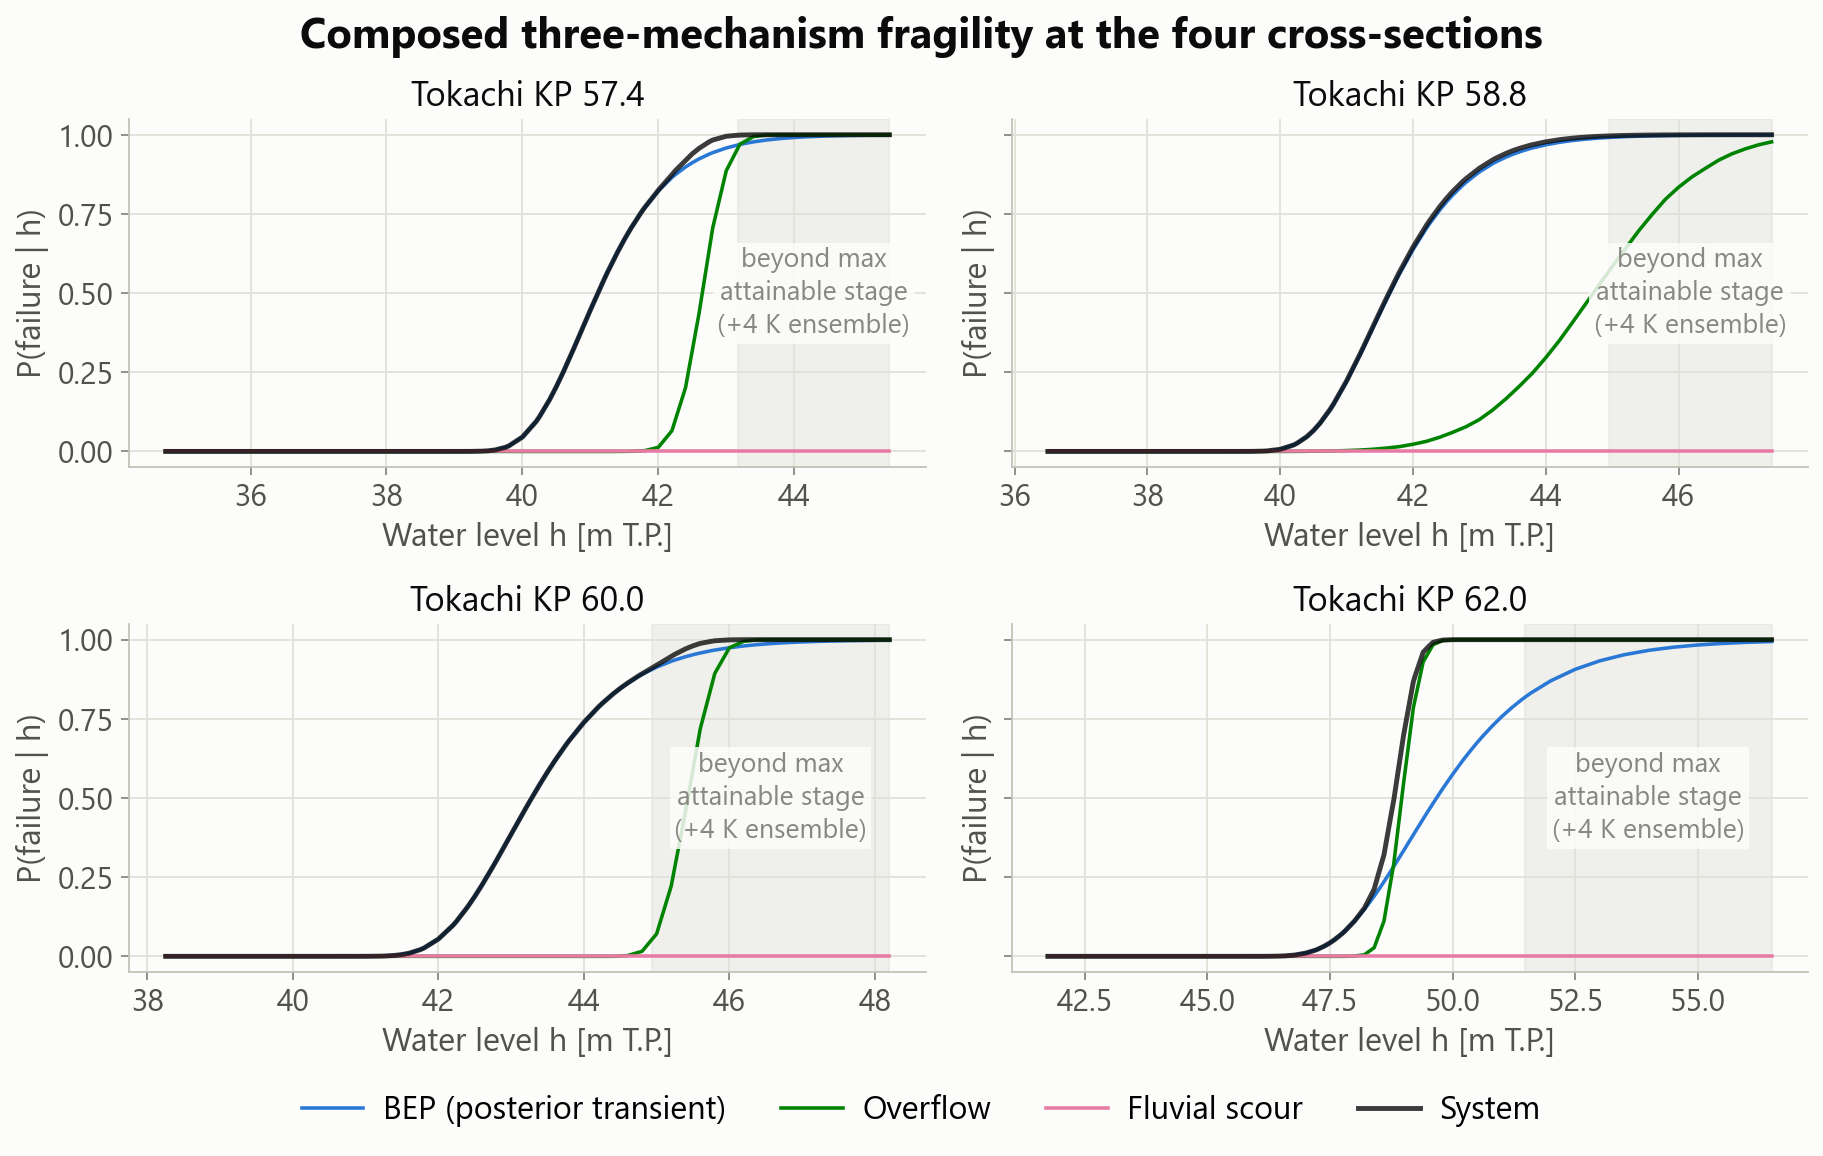
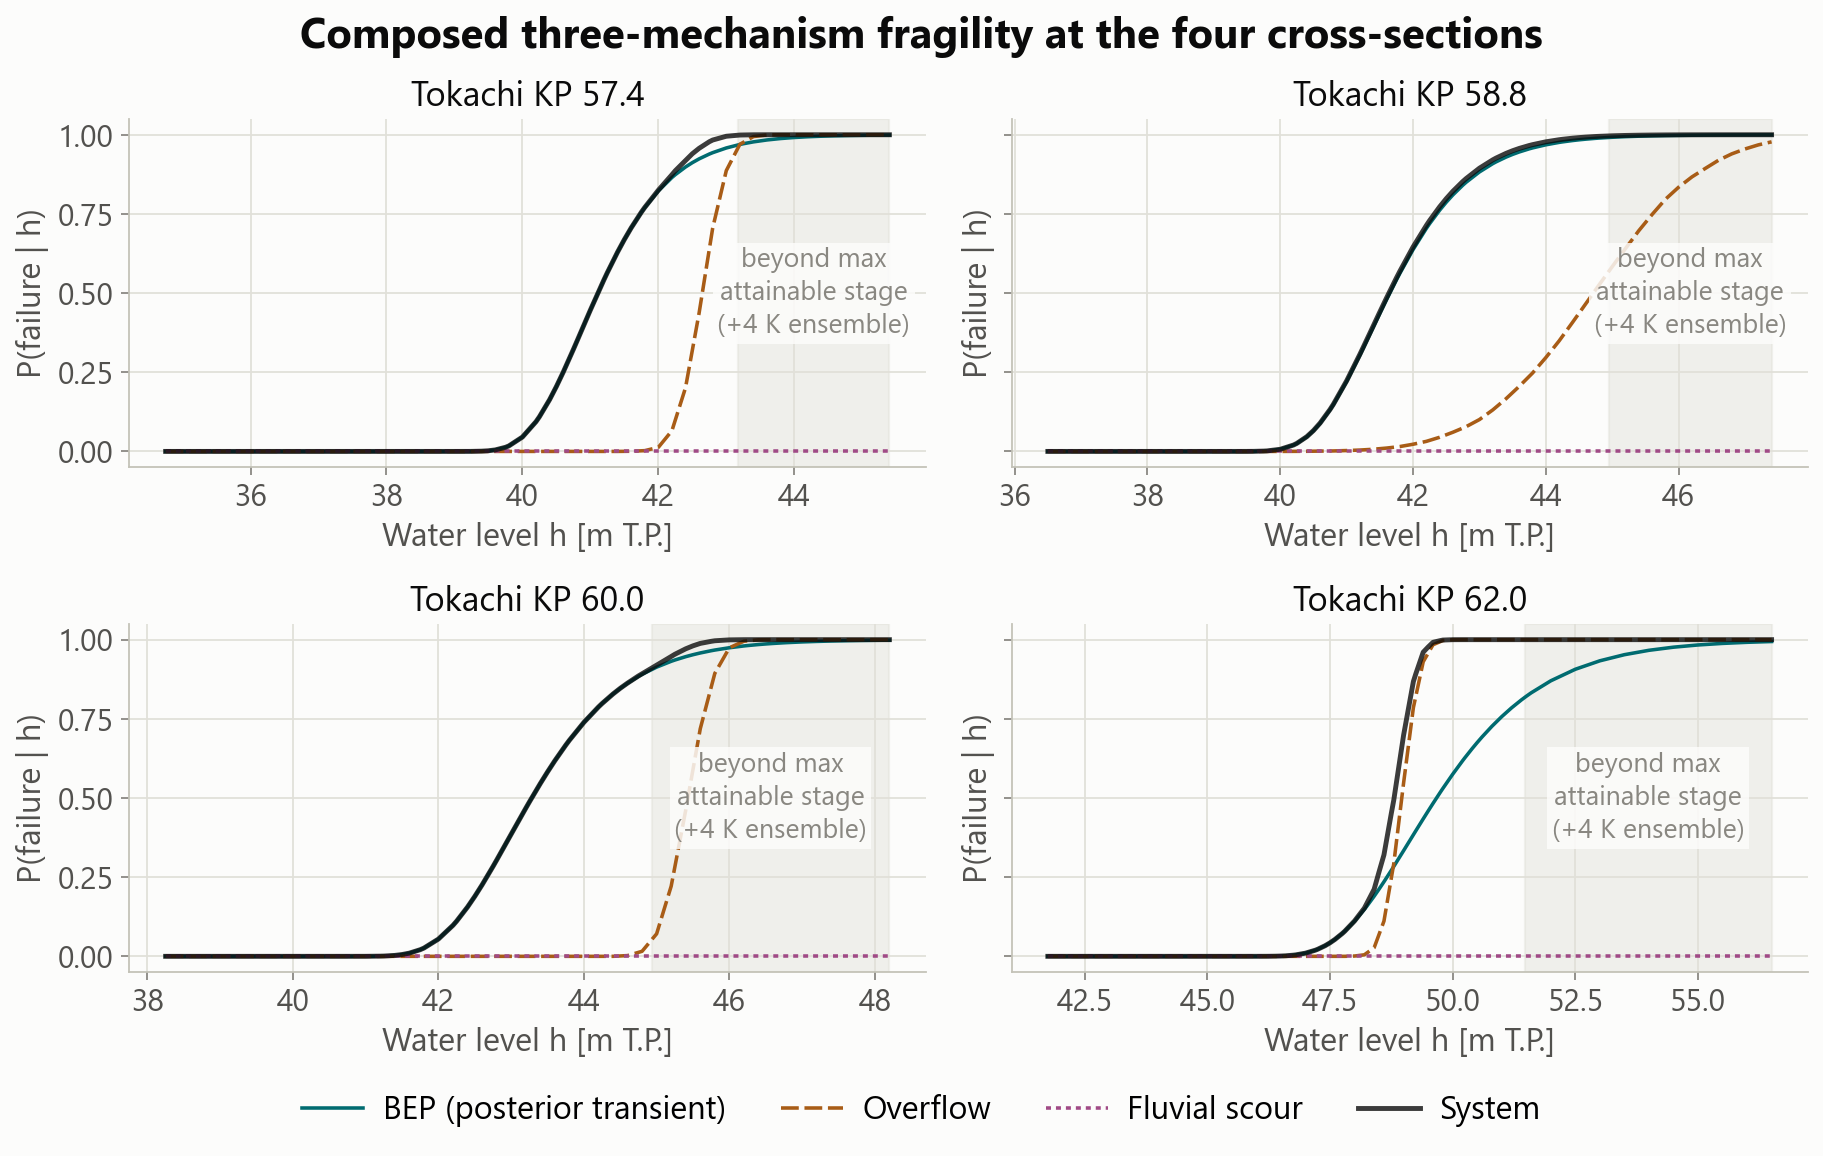
Give the three failure mechanisms a palette of their own
Piping was drawn in the static limit state's blue and overflow in
KP 62.0's section green, so a reader who had learned those two hues in
Chapter 6 met them carrying a second meaning in Chapter 7, and blue
carried three meanings across the document. The approved trio is a dark
teal, a brown and a plum, none of which belongs to another series.

It lives beside the section and climate palettes rather than in the
Phase 3 driver, which is what makes the next such question a one-line
change.

Each mechanism also gets a dash pattern, and that is load-bearing
rather than decorative: the brown and the plum have almost the same
relative luminance, 107 against 107 on a 0 to 255 scale against the
teal's 76, so in greyscale or for a colour-blind reader the hue alone
does not separate overflow from fluvial scour. One figure cannot carry
the second channel, its markers already encoding the climate scenario
and their fill whether the mechanism is engaged; that is recorded
rather than worked around.

A reference scan confirms the trio is drawn in one place only, so the
change re-opens exactly three already-approved figures. None of the
three reaches the report until the recolour is approved on its own.

diff --git a/scripts/phase3_figures.py b/scripts/phase3_figures.py
@@ -45,17 +45,11 @@ FIGS = REPO / "docs/figures"
 #: Committed 95 % hazard-sampling intervals for the RQ4 headline figure.
 INTERVALS = REPO / "docs/decisions/annualisation-hazard-sampling-uncertainty.json"
 
-# Reference palette (validated project set; light mode), fixed slots.
-MECH_COLORS = {
-    "bep": "#2a78d6",  # slot 1 blue
-    "overflow": "#008300",  # slot 2 green
-    "fluvial_scour": "#e87ba4",  # slot 3 magenta
-}
-MECH_LABELS = {
-    "bep": "BEP (posterior transient)",
-    "overflow": "Overflow",
-    "fluvial_scour": "Fluvial scour",
-}
+# The mechanism palette is the shared one, beside the section and climate
+# palettes, so the three hues cannot drift apart between figures.
+MECH_COLORS = fs.MECHANISM_COLORS
+MECH_LABELS = fs.MECHANISM_LABELS
+MECH_LINESTYLES = fs.MECHANISM_LINESTYLES
 
 #: Rendered names for the ``rq4_annual.csv`` record vocabulary. ``d70`` and
 #: ``lambda_ac_m`` are the annual table's own column names and are never
@@ -243,12 +237,15 @@ def fig_dominance_profile(df: pd.DataFrame) -> None:
                 shown = np.maximum(vals[mask].to_numpy(float), FLOOR)
                 # BEP exists only at the four isolated OYO nodes — markers
                 # only, never a connecting line implying reach continuity.
-                fmt = "o" if mech == "bep" else ".-"
+                fmt = "o" if mech == "bep" else "."
                 ax.plot(
                     sub.kp[mask],
                     shown,
                     fmt,
                     color=MECH_COLORS[mech],
+                    # The dash pattern is the second channel: overflow and
+                    # scour are all but identical in luminance.
+                    ls=MECH_LINESTYLES[mech],
                     lw=1.4,
                     ms=7 if mech == "bep" else 5,
                     mfc="none" if mech == "bep" else None,
@@ -301,6 +298,8 @@ def fig_bep_sections(curves: dict) -> None:
                 stage,
                 entry["per_mechanism"][mech],
                 color=MECH_COLORS[mech],
+                # The dash pattern is the second channel; see _figstyle.
+                ls="-" if mech == "bep" else MECH_LINESTYLES[mech],
                 lw=1.6,
                 label=MECH_LABELS[mech],
             )

diff --git a/scripts/_figstyle.py b/scripts/_figstyle.py
@@ -96,6 +96,37 @@ CLIMATE_COLORS = {"historical": VIOLET, "+4K": ORANGE}
 #: "+4K" and "4 K warming", the second of which drops the sign altogether.
 CLIMATE_LABELS = {"historical": "historical", "+4K": "+4 K"}
 
+#: The three failure mechanisms composed in Phase 3, fixed for the whole
+#: thesis. Until 2026-09-10 ``phase3_figures`` painted piping in the static
+#: limit state's blue and overflow in KP 62.0's green, so both hues carried a
+#: second meaning for a reader who had met them in Chapter 6, and blue carried
+#: three across the document. Teal, brown and plum belong to no other series.
+MECHANISM_COLORS = {
+    "bep": "#006b70",  # dark teal
+    "overflow": "#a85c16",  # brown
+    "fluvial_scour": "#a04a86",  # plum
+}
+
+#: The secondary channel, and it is load-bearing rather than decorative: the
+#: brown and the plum have almost the same relative luminance (107 against
+#: 107 on a 0 to 255 scale, against the teal's 76), so a greyscale print or a
+#: colour-blind reader separates overflow from scour by dash pattern and
+#: marker, not by hue. A figure that draws the trio uses one of these
+#: alongside the colour wherever its marks can carry one.
+MECHANISM_LINESTYLES = {
+    "bep": "none",  # isolated nodes, never a connecting line
+    "overflow": (0, (5, 1.6)),
+    "fluvial_scour": (0, (1.4, 1.4)),
+}
+MECHANISM_MARKERS = {"bep": "o", "overflow": "s", "fluvial_scour": "^"}
+
+#: Rendered names for the three mechanisms.
+MECHANISM_LABELS = {
+    "bep": "BEP (posterior transient)",
+    "overflow": "Overflow",
+    "fluvial_scour": "Fluvial scour",
+}
+
 # --- sequential blue ramp (magnitude only) ------------------------------------
 SEQ_BLUE = ("#cde2fb", "#9ec5f4", "#6da7ec", "#3987e5", "#256abf", "#184f95")
 

diff --git a/docs/project_log.md b/docs/project_log.md
@@ -227,3 +227,65 @@ mechanics are in `docs/conventions.md`.
   out; the round-3 artifact mirrors every keystroke into the element's text
   content and the ruling onto a data attribute, and is verified by saving and
   reopening the page before it is handed over.
+
+  **Round 3 executed, 2026-09-10.** All nine changes are made and the approved
+  palette is applied. Twenty-five approved figures and every caption and
+  body-text hunk are in the thesis and pushed; the nine changed figures are
+  **not**, and neither is the recolour, both pending a ruling. The one exception
+  is the annotated cross-section, whose unapproved round-2 version a concurrent
+  session had already committed and pushed, so it is fixed in place rather than
+  left carrying a drawing the author had asked to change.
+
+  **The transferable measurement of this round concerns tight bounding boxes.**
+  These drivers save with ``bbox_inches="tight"``, so the saved canvas takes the
+  width of its widest content. A general title set at the house printed size is
+  routinely wider than the panels it sits over, and it then *becomes* that width;
+  because the figure is placed at a fixed fraction of the text block, everything
+  in it is reduced further as a result. Measured on three figures: a one-line
+  house title took G.1 from 7.33 to 8.56 in and its body type from 8.2 pt down to
+  7.0, G.2 from 7.6 to 6.6, and 5.2 from 6.7 to 5.4. **So a title applied to fix
+  the type scale was silently degrading it.** Breaking those three titles onto two
+  lines restored every figure to at or above the size it had before, and two of
+  the three breaks were not requested. The author had already specified the same
+  remedy for 5.1 and 5.3 on the grounds that the title would not fit; the
+  measurement shows the rule is general and is about width, not about fitting.
+
+  **The two floor departures were delivered with their alternative rendered, not
+  argued.** 5.1 restores at 4.9 pt of annotation type and 8.1 at 3.1 pt of legend.
+  Each is presented beside a variant holding the same composition with every
+  authored size raised until the smallest prints at exactly 7 pt, the saved width
+  pinned to the authored width so the reduction cannot drift. **Both variants
+  fail, and that is the finding**: at 7 pt the restored compositions collide,
+  8.1's eight-entry legend swallowing its own panel and 5.1's panel titles
+  clipping at the canvas edge. The floor is unreachable at these compositions
+  without re-composing, which is what the conversion did and what the author
+  rejected. A third route exists for 8.1 and is offered rather than taken: its
+  panel-A key is four rates by two cases and the caption already lists the rates,
+  so moving the key into the caption removes the smallest text without touching
+  the drawing.
+
+  **Three findings the restores surfaced, none of them acted on unilaterally.**
+  5.1 prints ``m MSL`` in one panel title and ``m T.P.`` in another for the same
+  quantity, a datum inconsistency an earlier campaign had unified and round 2 had
+  hidden by deleting the string rather than fixing it; the author's instruction
+  was explicitly not to touch subfigure titles, so it is flagged. 5.3's restore
+  brings back e-notation and unset mathematics in its labels. And the
+  cross-section's own smallest text prints at 5.0 pt, which is LaTeX's ``\tiny``
+  at a 10 pt base rather than a reduction artefact.
+
+  **The mechanism palette is applied and re-opens exactly three figures.** The
+  reference scan confirmed the trio is drawn in one place only, so 7.1, H.9 and
+  H.10 are the whole scope. The dash patterns are load-bearing rather than
+  decorative: the approved brown and plum have almost identical relative
+  luminance, 107 and 107 on a 0 to 255 scale against the teal's 76, so hue alone
+  does not separate overflow from scour in greyscale. **H.9 is the one figure
+  that cannot carry the second channel** and needs its own decision: marker shape
+  there already encodes the climate scenario and marker fill already encodes
+  whether the mechanism is engaged.
+
+  **The text audit was verified rather than repeated.** Of its 257 rows, 87 name
+  a thesis destination; all 11 attached to the nine changed figures were checked
+  in full and a 30-row sample of the rest spans all six thesis files. Zero misses.
+  The three round-1 repairs and the three round-2 source corrections were
+  re-checked at every site, not only in the caption. One line-ending-only diff
+  was restored rather than committed, and one review artifact was left untracked.

diff --git a/docs/conventions.md b/docs/conventions.md
@@ -332,7 +332,25 @@ floor. Neither is silently reinstated. Each is re-presented beside a
 floor-lifted variant carrying the measured sizes, so the trade is the author's
 to make and not the drafter's. It is also a departure from T1 at three of them,
 the restored 5.1, 5.3 and G.2 titles carrying run conditions rather than a plain
-noun phrase. The nine are outstanding at this commit and are round 3's work.
+noun phrase.
+
+**Round 3 executed all nine (2026-09-10).** Six were restored to their
+pre-round-2 code path and given a house title and nothing else; 2.2, 5.8 and 6.5
+kept their round-2 drawing and took the refinement asked for. Two shared drivers
+were reverted **in part**, because a whole-file revert would have un-approved a
+figure: ``plot_validation_yabe`` also writes G.3 and ``foreshore_exhaustion_study``
+had gained the redraw path that 8.1 is now rebuilt with. G.3 and E.7, the two
+approved figures sharing a driver with a reverted one, were re-rendered and
+compared byte for byte against their approved copies.
+
+**One measurement changed how the titles were set, and it generalises.** These
+drivers save with ``bbox_inches="tight"``, so a title wider than the panels
+becomes the saved canvas's width, and the figure is then reduced further at a
+fixed placement: a one-line house title took G.1 from 7.33 to 8.56 in and its
+body type from 8.2 to 7.0 pt, G.2 from 7.6 to 6.6 pt, and 5.2 from 6.7 to 5.4 pt.
+**A title set at the house size that is wider than its own figure defeats
+itself.** Three titles are therefore set on two lines, two of them (5.2, G.1) at
+no request, and each figure now prints at or above the size it had before.
 
 Standing exceptions: 6.5 keeps its small upper-left legend, 6.12 uses separate
 legends beneath its two panels, 5.7 retains its compact printed-point table with
